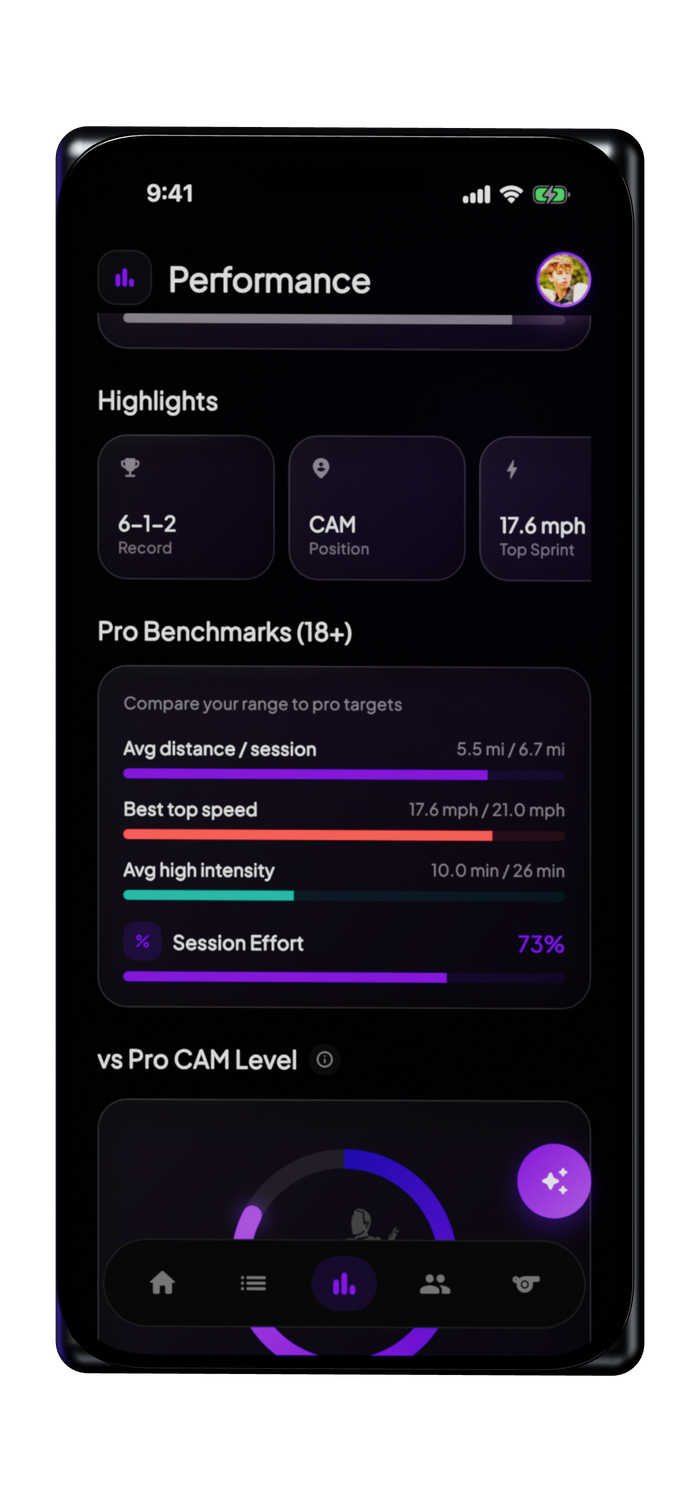
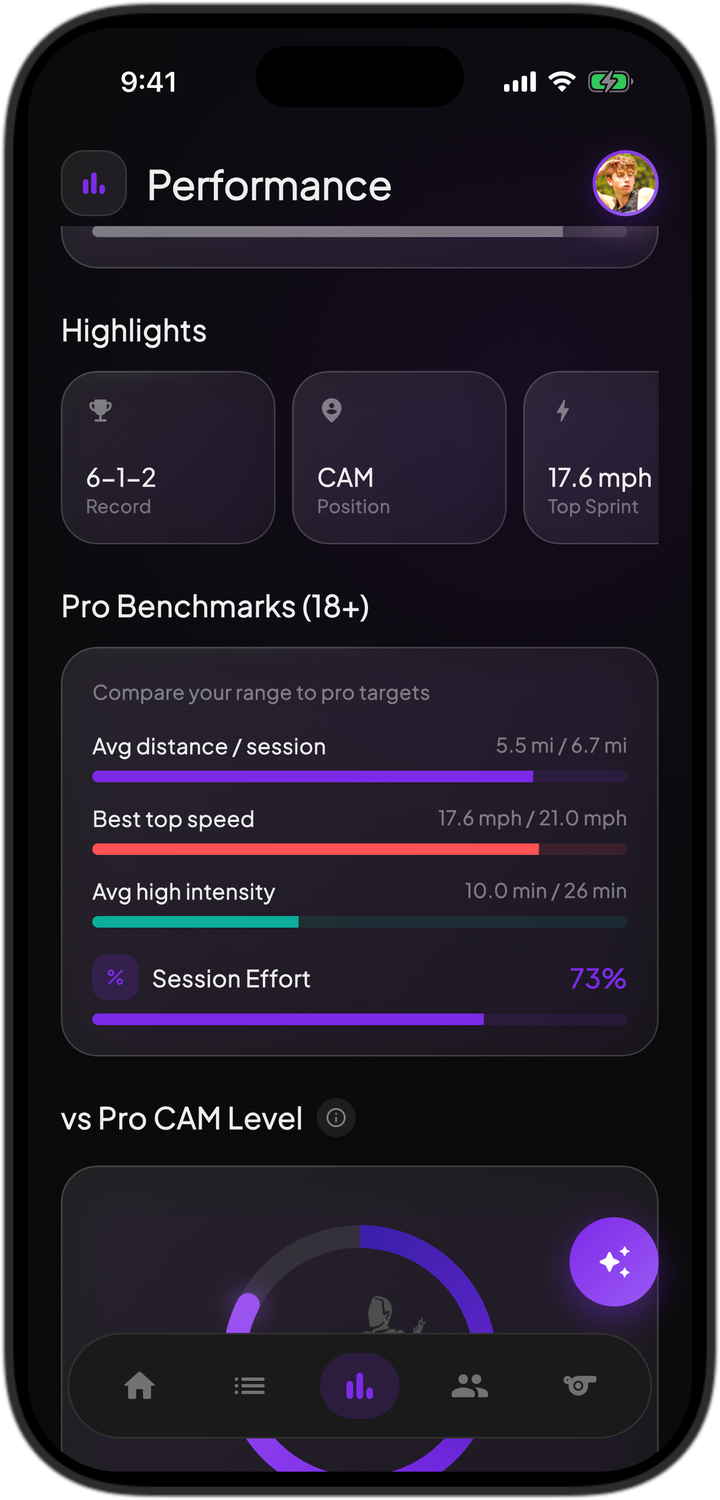
feat: /app screenshots in the real iPhone and Pixel device frames
Swap the 3D renders for the actual device frames the iOS Simulator
(iPhone 17 Pro) and Android emulator (Pixel 9 Pro skin) draw, so each
screenshot looks like it does on the device.

diff --git a/src/app/(site)/app/page.tsx b/src/app/(site)/app/page.tsx
@@ -91,14 +91,14 @@ function PhoneFrame({
                     transition={{ duration: 3, ease: "easeInOut", repeat: Infinity }}
                 />
             )}
-            {/* Rendered iPhone or Pixel with the screenshot on its display. */}
+            {/* Screenshot in the iPhone (Simulator) or Pixel (emulator) device frame. */}
             <div className="relative w-full h-full">
                 {platform && (
                     <Image
                         src={appDevice(platform, src)}
                         alt={alt}
                         fill
-                        className="object-contain scale-[1.16] drop-shadow-[0_30px_50px_rgba(0,0,0,0.65)]"
+                        className="object-contain drop-shadow-[0_30px_50px_rgba(0,0,0,0.65)]"
                         sizes={`${Math.round(width * 1.2)}px`}
                     />
                 )}

diff --git a/src/lib/devicePlatform.ts b/src/lib/devicePlatform.ts
@@ -30,7 +30,7 @@ const SCREENSHOT_DIRS: Record<DevicePlatform, string> = {
     android: "/app/android-screenshots",
 };
 
-/** Render of a screenshot such as `home.png` inside an iPhone or Pixel. */
+/** A screenshot such as `home.png` inside its iPhone or Pixel device frame. */
 export function appDevice(platform: DevicePlatform, file: string): string {
     return `/app/devices/${platform}/${file}`;
 }
